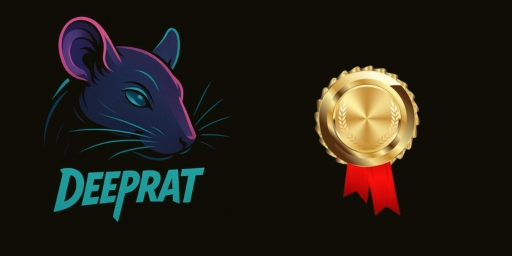
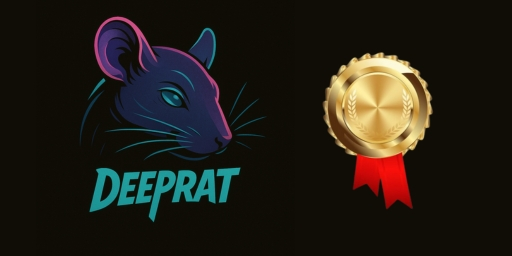
update static files

diff --git a/index.html b/index.html
@@ -44,7 +44,7 @@
         }
         .plan-card img {
             width: 100%; /* largura total do card */
-            height: 180px; /* altura fixa */
+            height: 220px; /* altura fixa */
             object-fit: cover;
             border-radius: 8px;
         }
